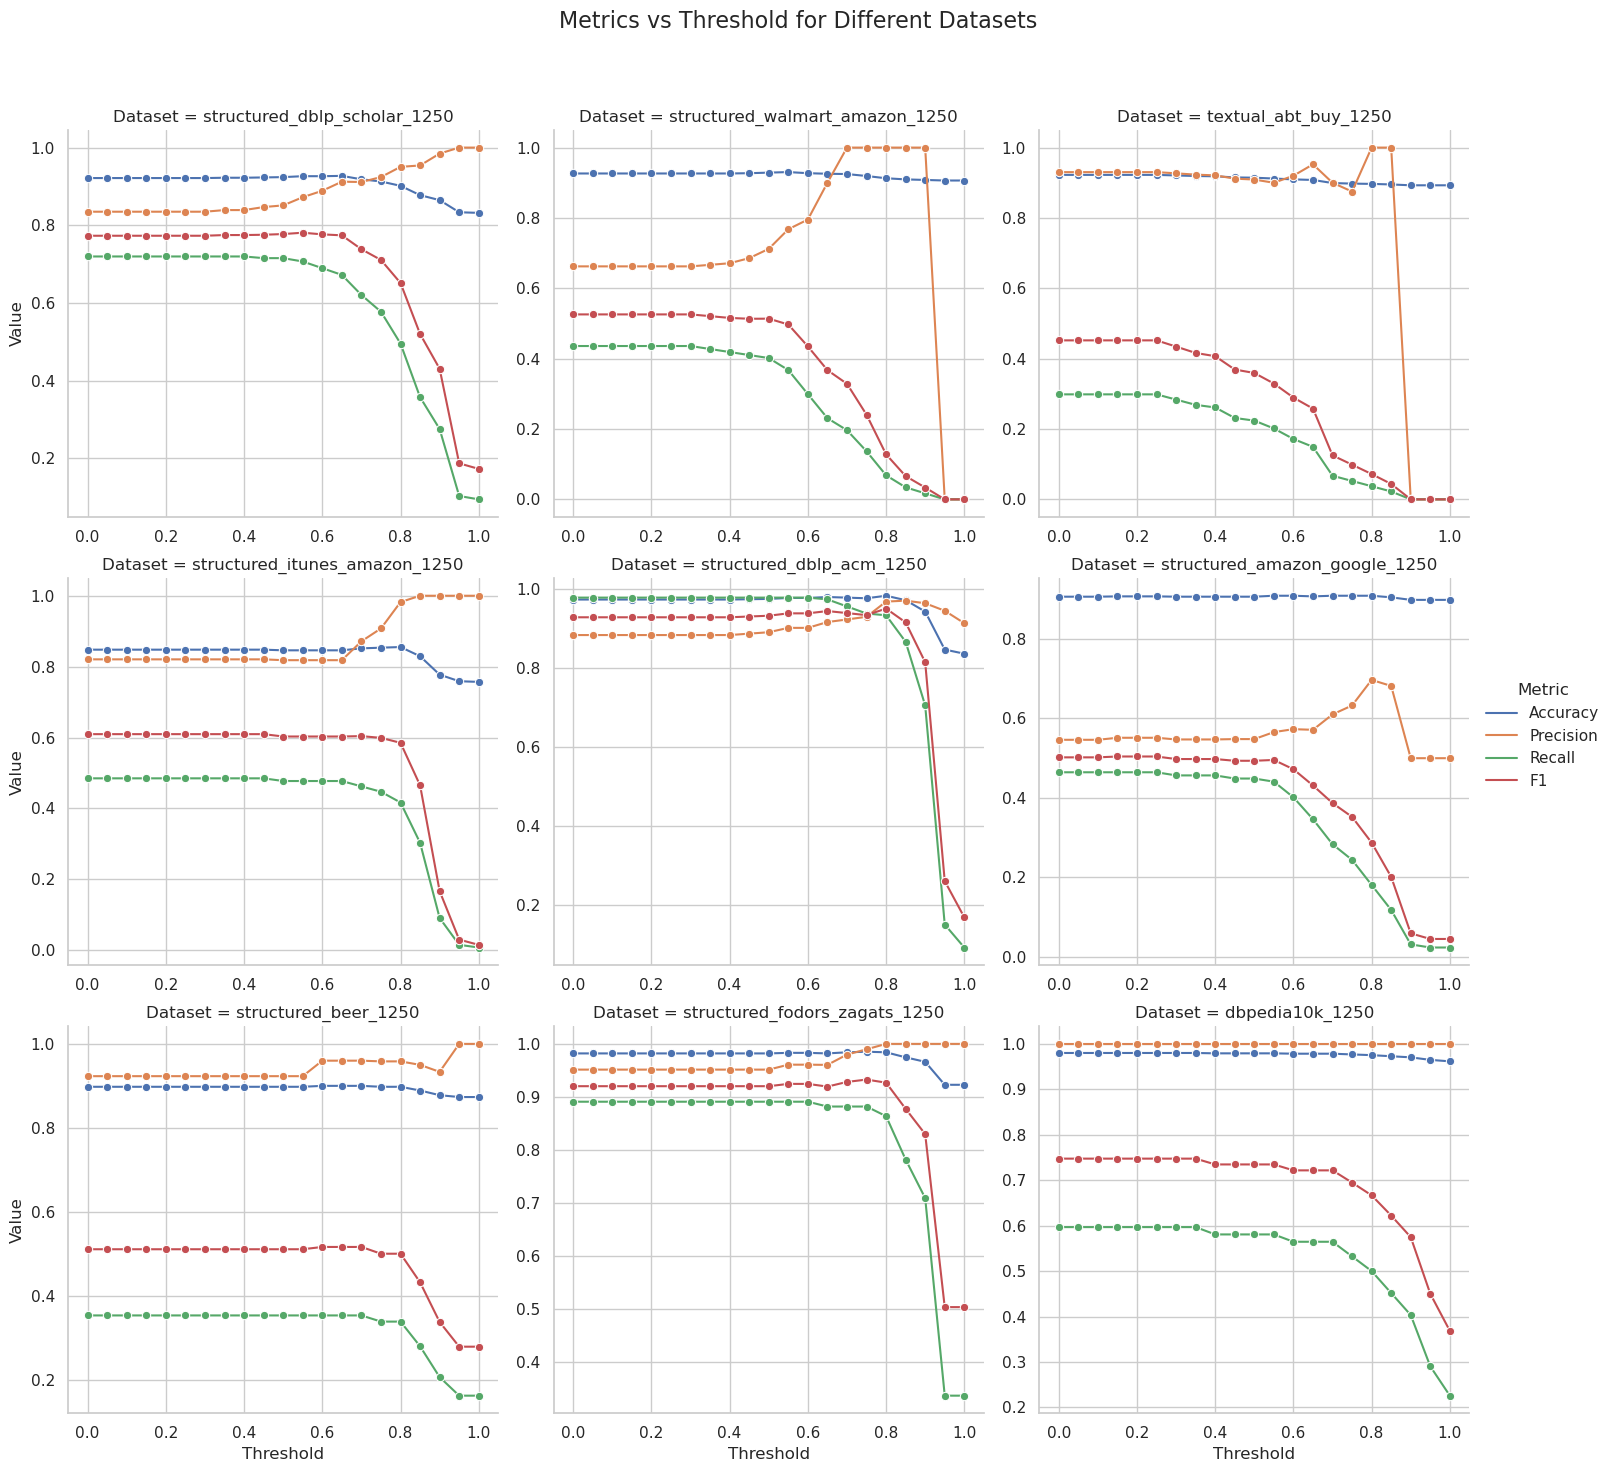
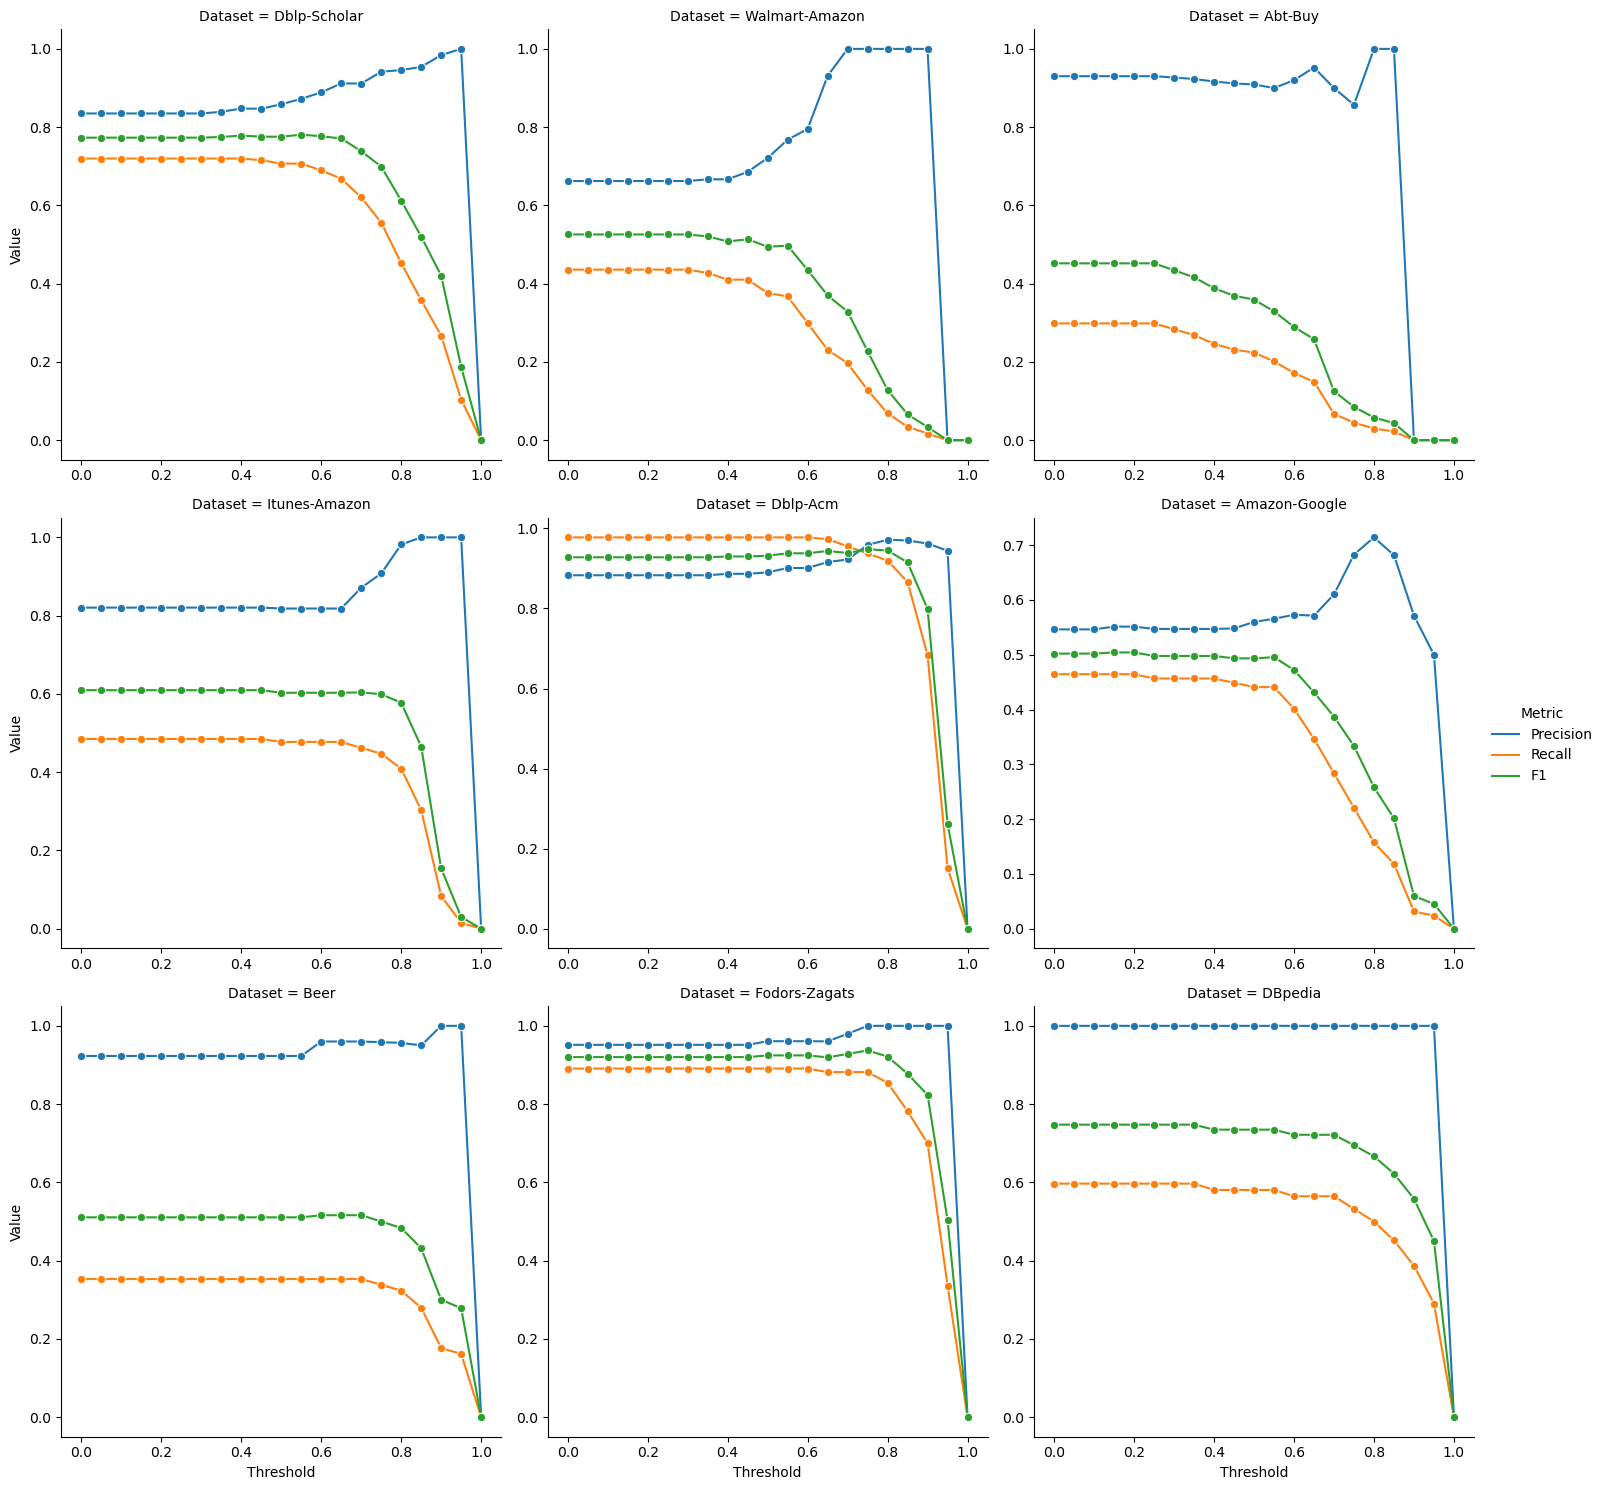
Progress on pre_llm_vis

diff --git a/pre_llm_vis.py b/pre_llm_vis.py
@@ -1,0 +1,56 @@
+import seaborn as sns
+import pandas as pd
+
+from utils import rename_datasets
+
+
+def plot_dataset(data, dataset_name):
+    # Create the relplot for the specified dataset
+    g = sns.relplot(
+        x="Threshold",
+        y="Value",
+        hue="Metric",
+        kind="line",
+        marker="o",
+        data=data,
+    )
+
+    # Set title for the plot
+    g.fig.suptitle(f"{dataset_name}")
+    g.savefig(f"figures/{dataset_name}-pre_llm_perf.png")
+
+
+df = pd.read_csv("eval_writeup/pre_llm_perf.csv")
+id_vars = ["Dataset", "Threshold"]
+selected_metrics = ["Precision", "Recall", "F1"]
+
+# Filter the dataframe to only contain the selected metrics and id_vars
+df = df[selected_metrics + id_vars]
+
+# Reshape the dataframe for seaborn
+df_melted = pd.melt(df, id_vars=id_vars, var_name="Metric", value_name="Value")
+
+df_melted = rename_datasets(df_melted, preserve_sampled=False)
+
+# Create the relplot
+g = sns.relplot(
+    x="Threshold",
+    y="Value",
+    hue="Metric",
+    col="Dataset",
+    col_wrap=3,
+    kind="line",
+    data=df_melted,
+    marker="o",
+    facet_kws={"sharex": False, "sharey": False},
+)
+
+
+# Adjust layout
+# g.fig.subplots_adjust(top=0.9)
+# g.fig.suptitle("Metrics vs Threshold for Different Datasets", fontsize=16)
+g.savefig(f"figures/pre_llm_perf.png")
+
+# Iterate over each group and plot the dataset
+for dataset_name, group_data in df_melted.groupby("Dataset"):
+    plot_dataset(group_data, dataset_name)

diff --git a/pre_llm.py b/pre_llm.py
@@ -22,7 +22,7 @@ def pre_llm(
         raise ValueError("Similarity file misses values for some pairs.")
 
     # Filter rows based on the specified threshold for the "overlap" column
-    discarded_rows = similarities[similarities[sim_function] < threshold]
+    discarded_rows = similarities[similarities[sim_function] <= threshold]
     discarded_pairs = set(zip(discarded_rows["table1.id"], discarded_rows["table2.id"]))
     # Get indices of discarded pairs in pairs
     discarded_pairs_indices = [
@@ -66,7 +66,10 @@ def find_matching_csv(
 
 if __name__ == "__main__":
     CONFIGURATIONS = {
-        "base": {"runfiles": "runs/35_base/*force-gpt*.json", "similarities": "eval"},
+        "base": {
+            "runfiles": "runs/35_base/*dblp_scholar*force-gpt*.json",
+            "similarities": "eval",
+        },
     }
     for path in Path(".").glob(CONFIGURATIONS["base"]["runfiles"]):
         dataset_name = path.stem.split("-")[0]

diff --git a/utils.py b/utils.py
@@ -127,3 +127,15 @@ def num_tokens_from_string(string: str, model: str):
     encoding = num_tokens_from_string.cached_encodings[model]
     num_tokens = len(encoding.encode(string))
     return num_tokens
+
+
+def rename_datasets(df, preserve_sampled=True):
+    # Remove prefixes from Dataset column
+    df["Dataset"] = df["Dataset"].str.replace(r"^structured_|textual_", "", regex=True)
+    # Reorder columns for clarity
+    df["Dataset"] = df["Dataset"].str.replace("_", "-").str.title()
+    df["Dataset"] = df["Dataset"].str.replace(
+        "-1250", " Sampled" if preserve_sampled else ""
+    )
+    df["Dataset"] = df["Dataset"].str.replace("Dbpedia10K", "DBpedia")
+    return df
